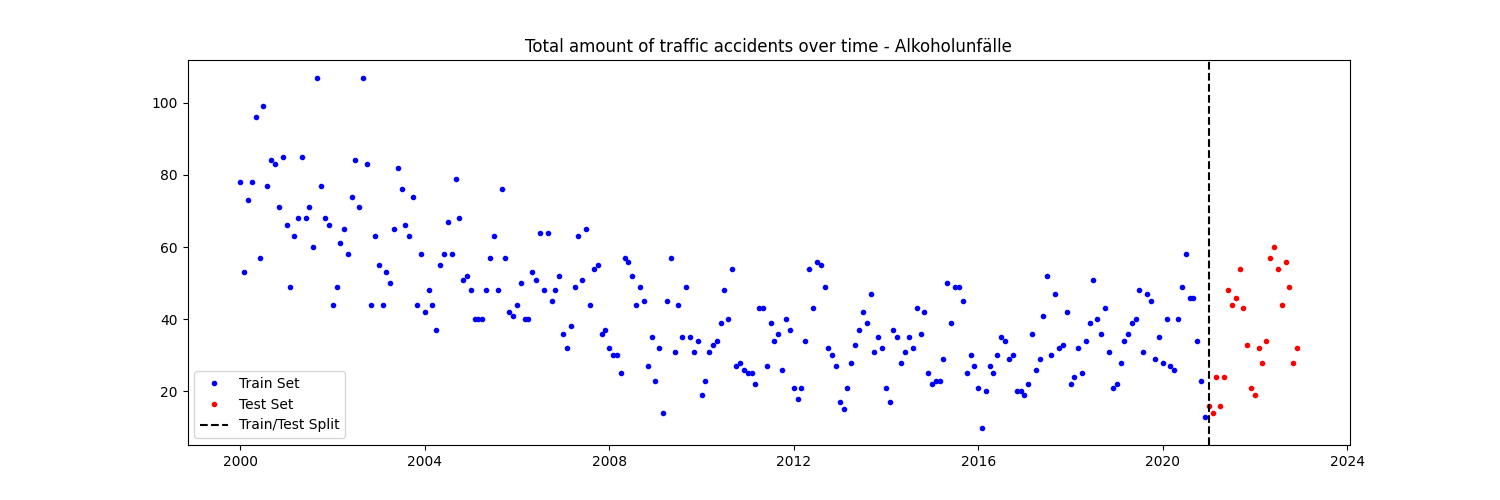
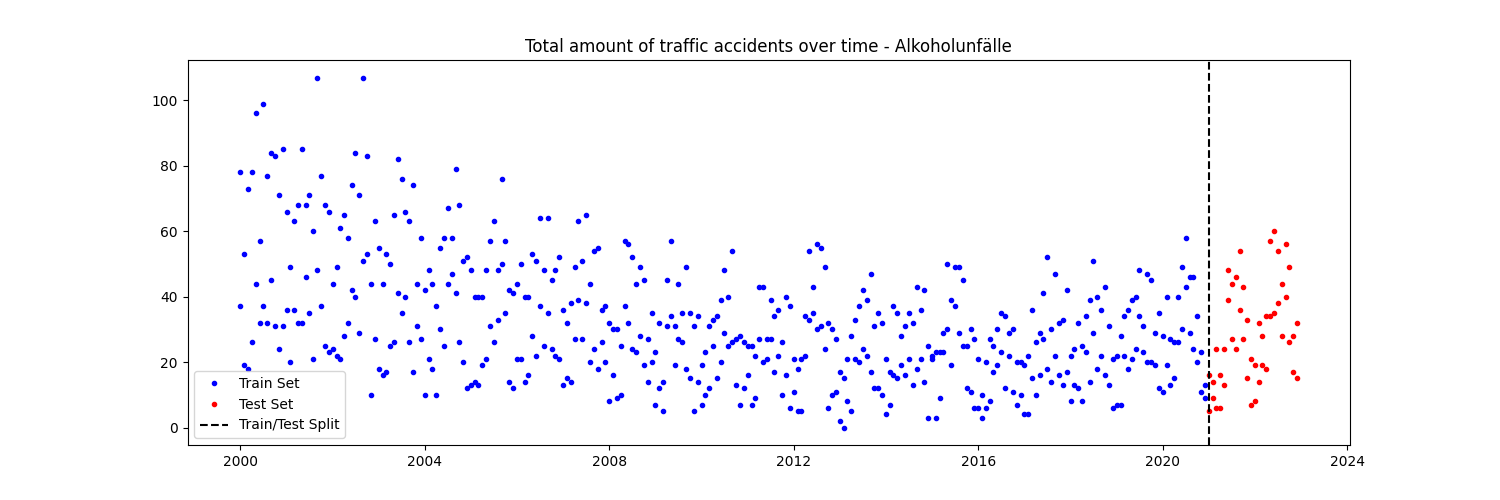
Fixed create_features method to only return df with required features

diff --git a/src/data/data_utils.py b/src/data/data_utils.py
@@ -20,12 +20,12 @@ def load_and_filter_data(filepath : str, start_year : int = 2000, end_year : int
     df = pd.read_csv(filepath)
 
     df = df[df['MONAT'] != 'Summe']
-    df = df[df['AUSPRAEGUNG'] == 'insgesamt']
 
     df['datetime'] = pd.to_datetime(df['MONAT'], format='%Y%m')
     df = df[(df['datetime'].dt.year >= start_year) & (df['datetime'].dt.year <= end_year)]
     pd.to_datetime(df['datetime'])
     df.set_index('datetime', inplace=True)
+
     return df
 
 def visualise_data(df: pd.DataFrame, title: str = 'Total amount of traffic accidents over time') -> List[str]:
@@ -45,7 +45,8 @@ def visualise_data(df: pd.DataFrame, title: str = 'Total amount of traffic accid
 
     for category in categories:
         df_category = df[df['MONATSZAHL'] == category]
-        
+        df = df[df['AUSPRAEGUNG'] == 'insgesamt']
+
         # Splitting the data
         train = df_category[:'2020']
         test = df_category['2021':]
@@ -70,8 +71,10 @@ def create_features(df: pd.DataFrame) -> pd.DataFrame:
     """
     Create time series features based on timeseries index and the 'MONATSZAHL' column.
     """
-    df['month'] = df.index.month
-    df['year'] = df.index.year
-    df['MONATSZAHL_ENC'], _ = pd.factorize(df['MONATSZAHL'])
+    df = df[['MONATSZAHL', 'AUSPRAEGUNG', 'WERT']].copy()
+    df['MONAT'] = df.index.month
+    df['JAHR'] = df.index.year
+    df['MONATSZAHL'], _ = pd.factorize(df['MONATSZAHL'])
+    df['AUSPRAEGUNG'], _ = pd.factorize(df['AUSPRAEGUNG'])
 
     return df

diff --git a/src/main.py b/src/main.py
@@ -10,11 +10,10 @@ def main():
     csv_filepath = os.path.join('data', 'monthly_traffic_accidents.csv')
     # Process and save data
     df = load_and_filter_data(csv_filepath, 2000, 2024)
-    # print(df.head())
-    print(visualise_data(df))
+    visualise_data(df)
     df = create_features(df)
+    print(df.columns)
     print(df.head())
-
 
 if __name__ == '__main__':
     main()
